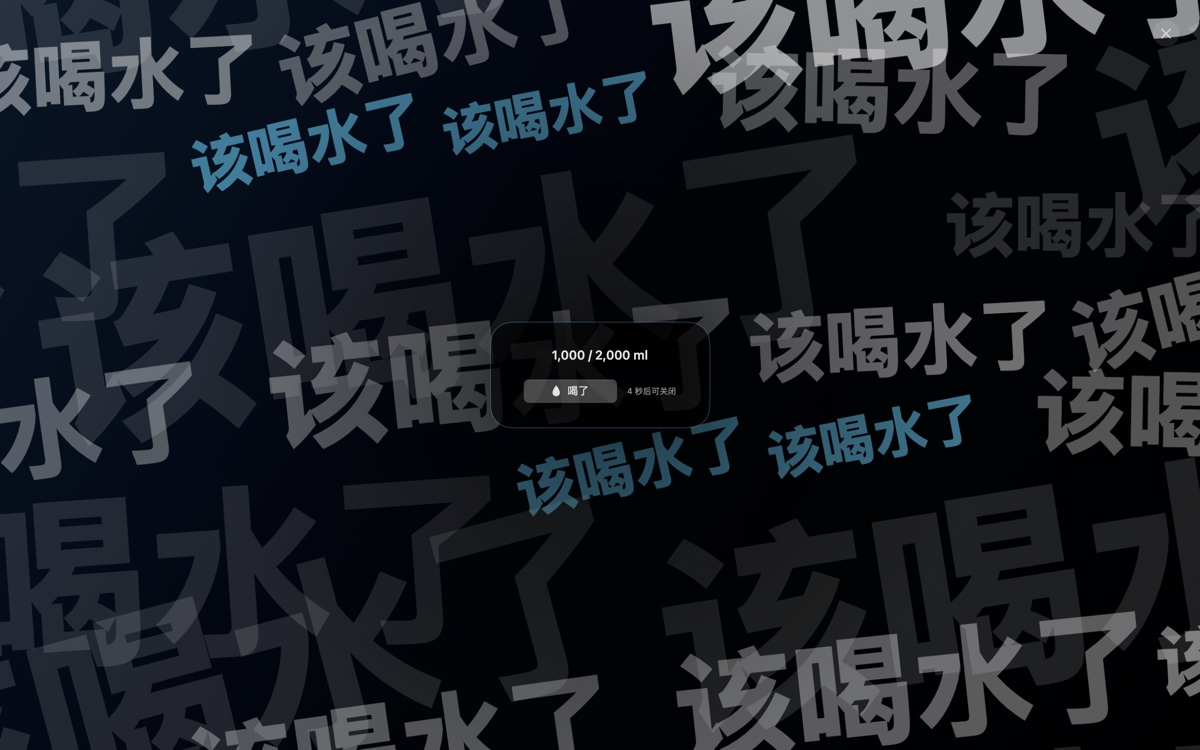
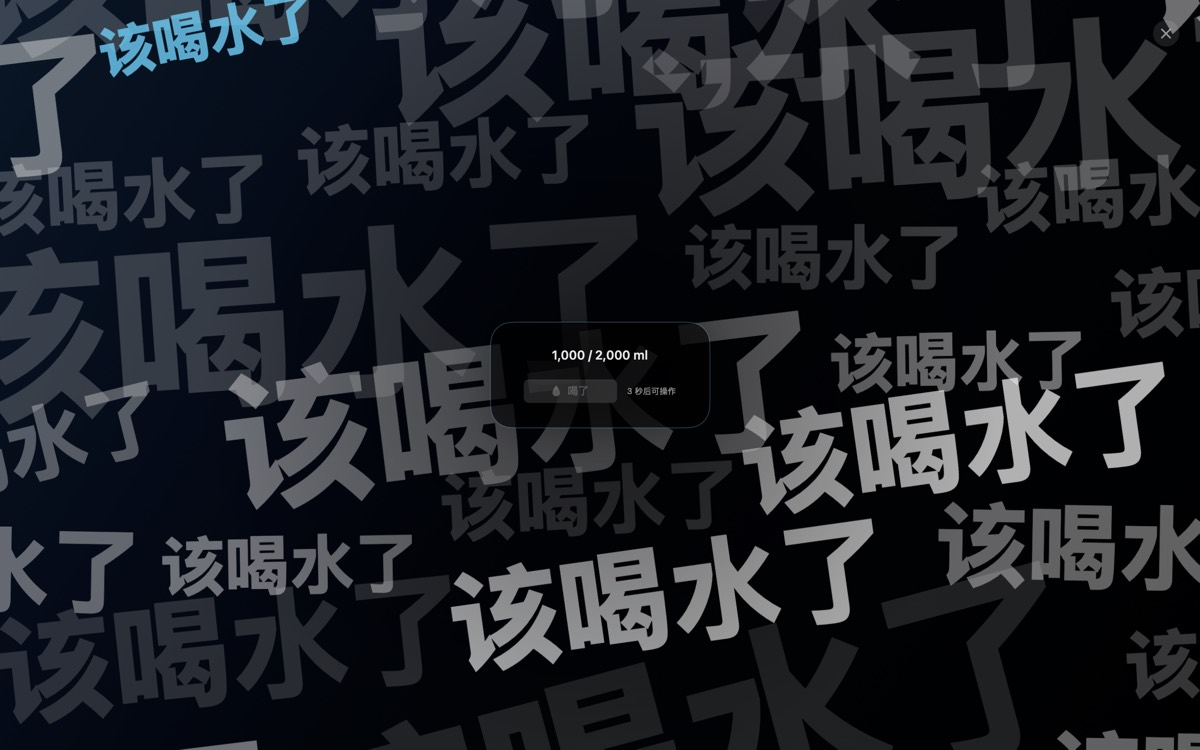
强硬档：5 秒锁定挡整块动作区（"喝了"与 × 都要等解锁）
- 完成按钮与 Enter 在锁定期内一并失效，只保留双击 Esc 逃生口
- 锁定文案改为「N 秒后可操作」，设置页说明同步
- design/product/README/roadmap/官网口径就地重写，重出 overlay-locked 截图

diff --git a/docs/index.html b/docs/index.html
@@ -290,7 +290,7 @@
         <li class="card">
           <svg class="icon" viewBox="0 0 24 24" fill="none" stroke="currentColor" stroke-width="1.7" stroke-linecap="round" stroke-linejoin="round" aria-hidden="true"><rect x="3" y="5" width="18" height="14" rx="3"/><path d="M7.5 10.5h6M7.5 14h4"/></svg>
           <h3>三套呈现，强度可选</h3>
-          <p>温柔：右上角卡片 + 提示音。大字墙：满屏重复大字 + 渐强音，标准档可推迟，强硬档不可推迟、中断先锁 5 秒。碎裂：满屏碎玻璃。每张卡都能单独预览。</p>
+          <p>温柔：右上角卡片 + 提示音。大字墙：满屏重复大字 + 渐强音，标准档可推迟，强硬档不可推迟、按钮先锁 5 秒（双击 Esc 仍可立即中断）。碎裂：满屏碎玻璃。每张卡都能单独预览。</p>
         </li>
         <li class="card">
           <svg class="icon" viewBox="0 0 24 24" fill="none" stroke="currentColor" stroke-width="1.7" stroke-linecap="round" stroke-linejoin="round" aria-hidden="true"><path d="M4 6.5h16M4 12h16M4 17.5h9"/><circle cx="17.5" cy="17.5" r="2.2"/></svg>

diff --git a/Sources/BargeIn/Presentation/PresentationChrome.swift b/Sources/BargeIn/Presentation/PresentationChrome.swift
@@ -36,7 +36,8 @@ enum PresentationChrome {
             }
             .buttonStyle(.borderedProminent)
             .controlSize(.large)
-            .disabled(!context.interactive)
+            // 锁定期连"喝了"也不响应：强硬档 5 秒内整块动作区都按不动，只留双击 Esc 逃生。
+            .disabled(!context.interactive || !context.unlocked)
             .help("记录这次提醒（1 秒内连按两次 Enter 也可确认）")
 
             if context.presentation.allowsPostpone {
@@ -47,7 +48,7 @@ enum PresentationChrome {
             }
 
             if !context.unlocked {
-                Text("\(context.secondsLeft) 秒后可关闭")
+                Text("\(context.secondsLeft) 秒后可操作")
                     .font(.caption)
                     .foregroundStyle(.secondary)
             }

diff --git a/Sources/BargeIn/Presentation/ReminderPresenter.swift b/Sources/BargeIn/Presentation/ReminderPresenter.swift
@@ -181,9 +181,10 @@ final class ReminderPresenter {
     }
 
     /// 1 秒内连按两次 Enter = 确认喝了。第一次只记录，单次误触不会记下一杯。
+    /// 锁定期内连 Enter 一起挡掉：按钮按不动，键盘不能成为后门。
     private func returnPressed() {
         if let animator, !animator.isInteractive { return }
-        guard let state = overlayState, state.interactive, state.registerReturn() else { return }
+        guard let state = overlayState, state.interactive, state.unlocked, state.registerReturn() else { return }
         handle { $0.onComplete?() }
     }
 

diff --git a/Sources/BargeIn/Settings/PresetSection.swift b/Sources/BargeIn/Settings/PresetSection.swift
@@ -306,7 +306,7 @@ struct PresetEditor: View {
                     .frame(width: 180)
                     Spacer(minLength: 0)
                 }
-                Text("强硬不可推迟，中断按钮锁定 5 秒起；标准可以推迟 5 分钟。")
+                Text("强硬不可推迟，按钮锁定 5 秒（双击 Esc 仍可立即中断）；标准可以推迟 5 分钟。")
                     .font(.system(size: 10.5))
                     .foregroundStyle(.secondary)
             }

diff --git a/Sources/BargeIn/Presentation/ReminderOverlay.swift b/Sources/BargeIn/Presentation/ReminderOverlay.swift
@@ -6,7 +6,7 @@ import BargeInCore
 @Observable
 final class OverlayState {
     private(set) var secondsLeft: Int
-    /// 关闭/中断按钮的延迟解锁。
+    /// 动作区的延迟解锁：强硬档 5 秒内"喝了"与 × 都不响应，双击 Esc 不受它影响。
     private(set) var unlocked: Bool
     /// 覆盖层出现后 1 秒内所有按钮都不响应，避免"正在点的位置"被吞成误触。
     private(set) var interactive = false

diff --git a/docs/design.md b/docs/design.md
@@ -306,20 +306,21 @@ protocol PresetTheme {
 | 大字墙 `wall` | 满屏重复大字 | 渐强 | 强度 + 文案 |
 | 碎裂 `shatter` | 满屏碎掉的深色玻璃 | 玻璃碎（一次） | 仅文案 |
 
-**"标准 / 强硬"不是两套预设**：它们是大字墙强度参数的两个取值，视觉与音效完全相同，差别只在预设行为（能否推迟、中断延迟）。强度是预设实例的可配置项，和文案覆盖同级；温柔与碎裂没有强度。
+**"标准 / 强硬"不是两套预设**：它们是大字墙强度参数的两个取值，视觉与音效完全相同，差别只在预设行为（能否推迟、动作锁定时长）。强度是预设实例的可配置项，和文案覆盖同级；温柔与碎裂没有强度。
 
 **碎裂没有可配置参数**：炸点、裂纹与碎片每次提醒重新生成（预览与到点各一套），多屏按尺寸等比缩放共用同一套。它不改音效、时长与强度——"多难推掉"由预设实例的强度决定，与账本无关。
 
 **预设行为由预设自己给出**，预设与实例只能选强度，不能自定义数值：
 
-| 预设 · 强度 | 能否推迟 | 中断按钮延迟 | 中断方式 |
+| 预设 · 强度 | 能否推迟 | 动作锁定 | 中断方式 |
 |---|---|---|---|
 | 温柔（无强度） | 允许 | 0s | 双击 Esc 或单击 × |
 | 大字墙 · 标准 | 允许 | 0s | 双击 Esc 或单击 × |
-| 大字墙 · 强硬 | 禁止 | 5s | 双击 Esc 或单击 × |
+| 大字墙 · 强硬 | 禁止 | 5s（"喝了"与 × 都要等解锁） | 双击 Esc 或单击 × |
 | 碎裂（无强度） | 允许 | 0s | 双击 Esc 或单击 × |
 
 这张表是呈现行为本身，不是升级阶梯；任何预设、任何副本都调不出"无限延迟"。账本不参与。
+锁定挡的是鼠标与 `Enter`：锁定期间点"喝了"和点 × 都不响应，只有双击 Esc 能结束这次提醒。
 
 全屏大字墙的视觉：`大字词` 以 7° 倾角重复铺满，字号在约 0.5×–2× 之间混排，每个词各自旋转、上下偏移，行高固定，行与行之间左右错位，白色为主、青色点缀；排布每次呈现重新散列（同一次呈现内固定，不逐帧抖），所以同一句话每次出现都不一样；视线落点只有中央一块半透明深色面板，用来放进度与动作。字墙按 5 组错峰闪动，每组约 2.4 秒冲到全亮一次，强调频率压得比光敏阈值低，开启系统「减弱动态效果」时保持静态。
 
@@ -501,7 +502,7 @@ CalDAV 的流程（以钉钉为基准，其他服务器同构）：
 - 界面不展示跳过次数；popover 与设置只展示用户需要的进度与次数（喝水毫升、活动次数、日程场次、闹钟条数）。
 - 引擎不再生成"升级说明"；提醒层、popover 与设置里都没有这句话。
 
-**Esc 一律双击**：任何预设、任何强度，中断都要在 1 秒内按两次 Esc——第一次只记录，第二次才算确认，单击不生效。延迟还没走完时双击 Esc 仍可立即中断（逃生口）。× 按钮在延迟走完后单击即可。
+**Esc 一律双击**：任何预设、任何强度，中断都要在 1 秒内按两次 Esc——第一次只记录，第二次才算确认，单击不生效。锁定还没走完时双击 Esc 仍可立即中断（逃生口），这是强硬档锁定期内唯一的出口；"喝了"与 × 都要等锁定解除。
 
 ### 4.13 闹钟
 
@@ -626,8 +627,8 @@ CalDAV 的流程（以钉钉为基准，其他服务器同构）：
 点「就用这个」之后：
 
 1. 这次选择**同时落到四个场景**的激活实例（选温柔则都温柔；选大字墙则都大字墙·标准）。
-2. **立即按喝水场景真实呈现一次预览**——视觉、音效、该预设的延迟行为全都在。强硬档在预览里同样要等 5 秒才能关。
-3. 预览里任何动作只关闭：不写状态、不记账、不动调度。双击 Esc 仍是通用逃生口。
+2. **立即按喝水场景真实呈现一次预览**——视觉、音效、该预设的锁定行为全都在。强硬档在预览里同样锁 5 秒，只有双击 Esc 能立刻关。
+3. 预览里任何动作只关闭：不写状态、不记账、不动调度；锁定照卡片的强度走，双击 Esc 仍是通用逃生口。
 4. 预览里显示一行"这是预览"的标识。
 5. 预览关闭后**关闭设置窗口，只剩菜单栏**。
 
@@ -643,12 +644,12 @@ CalDAV 的流程（以钉钉为基准，其他服务器同构）：
 - **碎裂**：整屏是一块不透明的深色玻璃，裂纹与碎片就是遮罩本身；中央深色面板承放标题、进度与动作。等用户处理期间，约每半秒开始掉一块小碎片，共十块（遮罩上留下小缺口），碎块本身提亮一点，否则深色碎片在深色玻璃上看不出来。动作后整片玻璃由近及远坠落（约 2 秒），遮罩随碎片消失、露出桌面，落完才关窗。
 - **文案来源**：提醒层里所有可改写的文字都取自当前场景激活实例的槽渲染；完成动作标签、"还有 N 个提醒"、可访问性标签由引擎生成，实例改不动。
 - 动作：
-  - **完成**（点按钮，或 1 秒内连按两次 `Enter`）→ 记账并关闭当前这条；喝水 +杯量，活动 +1 次，日程只记一次「知道了」
+  - **完成**（点按钮，或 1 秒内连按两次 `Enter`）→ 记账并关闭当前这条；喝水 +杯量，活动 +1 次，日程只记一次「知道了」。强硬档在锁定走完前按不动，`Enter` 同样无效
   - **推迟 5 分钟** → 关面板；rhythm 把当前场景下一次触发提前到 5 分钟后（进程内覆盖），日程把这条事件记进 `snoozedUntil`（5 分钟后再提醒一次，即便事件已经开始）；不允许推迟时不显示
-  - **中断**（快速双击 `Esc` 或右上 `×`）→ 双击 Esc 立刻关闭，零等待；`×` 在延迟走完后单击即可；任何档位单击 `Esc` 都无效，需在 1 秒内双击
+  - **中断**（快速双击 `Esc` 或右上 `×`）→ 双击 Esc 立刻关闭，零等待，锁定期间也照旧；`×` 在锁定走完后单击即可；任何档位单击 `Esc` 都无效，需在 1 秒内双击
 - **队列**：关闭当前这条后，如果队列里还有下一条，立即呈现；下一条仍走自己的预设。提醒层底部显示"还有 N 个提醒"。中断当前一条不会取消后面的。碎裂的退场要播完坠落（约 2 秒），队列里的下一条等它播完再出现，不插进坠落动画里。
 - **防误触**：覆盖层出现后 1 秒内所有按钮不响应；宿主视图 `acceptsFirstMouse` 恒为 true。碎裂在裂纹长满、面板出现（约 2.25 秒）之前连 Esc / Enter 都不响应——用户还没看到任何东西，不该被一个按键关掉。
-- **延迟只锁中断**：延迟只作用在中断路径；"完成"在 1 秒防误触后即可用，"推迟"按预设行为表（强硬不提供）。
+- **锁定挡整块动作区**：强硬档的 5 秒锁定同时挡"完成"与"×"，键盘 `Enter` 也一起挡——按钮按不动，键盘不能成为后门。锁定期间唯一能结束提醒的是双击 `Esc`（逃生口）。其他档位没有锁定，"完成"在 1 秒防误触后即可用；"推迟"按预设行为表（强硬不提供）。
 - **键盘与焦点**：展示时 `NSApp.activate()` 激活自身、面板 `makeKeyAndOrderFront` 成为 key window；`Esc` 与 `Enter` 都由 App 级 `NSEvent` 本地监听处理。`Enter` 与 `Esc` 各记一份双击时间窗。队列里连续呈现时，不把前台还给原 App 又抢回来；最后一条关闭后才还原。
 - 可访问性：大字墙对 VoiceOver 读作一个完整的 `大字词`；按钮都有中文标签；关闭键带 `help` 说明。
 - 中断永远即时生效：不拦截键盘、不阻止切换 App、不阻止强退。强度只体现在预设本身，不体现在"这次逃不掉"。中断是逃生口：即使当前提醒的内部状态缺失，也先关掉提醒层，记账尽力而为——全屏覆盖层不能存在关不掉的状态。
@@ -899,3 +900,4 @@ Makefile                 // make run / make app
 - 2026-11-13 v8：新增闹钟场景（自己定的时刻、每天/仅一次、受通用时间约束、无效是派生状态、一次性补发窗口与消散），触发来源加 `alarms`，设置扩到五个 tab，记录 ADR-0002
 - 2026-11-17 v9：节奏切换只换用哪一套，另一边留在存档里，切回来不被重置
 - 2026-11-17 v10：设置 tab 加场景图标；提醒预设两行封顶、超出纵向滚动并自动滚到新复制的卡；通用页加作者信息一行
+- 2026-11-18 v11：强硬档的 5 秒锁定改为挡整块动作区（"喝了"与 × 都要等解锁，`Enter` 一起挡），双击 Esc 仍是唯一逃生口

diff --git a/docs/product.md b/docs/product.md
@@ -238,14 +238,14 @@
 
 **预设行为表**（预设只能选强度，不能自定义数值）
 
-| 档位 | 呈现 | 推迟 | 中断按钮 | 中断方式 |
+| 档位 | 呈现 | 推迟 | 按钮 | 中断方式 |
 |---|---|---|---|---|
 | 温柔 | 右上角卡片 + 单次提示音 | 允许 | 立即可点 | 双击 Esc 或单击 × |
 | 大字墙 · 标准 | 满屏重复大字 + 渐强音 | 允许 | 立即可点 | 双击 Esc 或单击 × |
-| 大字墙 · 强硬 | 满屏重复大字 + 渐强音 | 禁止 | 延迟 5 秒 | 双击 Esc 或单击 × |
+| 大字墙 · 强硬 | 满屏重复大字 + 渐强音 | 禁止 | 锁定 5 秒（"喝了"与 × 都要等） | 双击 Esc 或单击 × |
 | 碎裂 | 满屏碎玻璃 + 玻璃碎音 | 允许 | 立即可点 | 双击 Esc 或单击 × |
 
-**Esc 一律双击**：任何档位都要在 1 秒内连按两次才中断，单击不生效；延迟还没走完时双击照样立即中断。× 按钮在延迟走完后单击即可。
+**Esc 一律双击**：任何档位都要在 1 秒内连按两次才中断，单击不生效；锁定还没走完时双击照样立即中断——这是强硬档锁定期内唯一的出口。"喝了"与 × 都要等锁定解除，`Enter` 也一起挡。
 
 **账本只记录**：跳过与完成都计入该场景的账本，但不改变下一次提醒；界面不展示跳过次数，也不做历史与统计。
 
@@ -257,13 +257,13 @@
 
 **视觉冲突**：大字墙是满屏重复的大字墙——大小字混排、7° 倾斜、每词各自旋转偏移、每次呈现重新排布、5 组错峰闪到全亮。冲突来自密度、凌乱与闪烁。强度不设上限（§6 原则 1）：呈现可以是遮挡、悬置、触觉与声音、时间渐变（1px 边 30 秒涨成满屏），或者一段叙事（满屏碎裂、涨上来的水）。设计新档位时只问"够不够狠、怎么实现"；涉及读取屏幕内容、跟随全局光标或阻止切 App 的做法会破原则 3、4，不能做。
 
-**为什么不做自动升级**：强度属于预设实例，和文案覆盖同级——用户选了什么预设，就得到什么强度；产品不根据跳过次数偷偷加码。代价是"心流用户会一直点推迟"，我们接受它：把选择交给用户（强硬不可推迟），而不是交给一个用户看不见的升级算法。
+**为什么不做自动升级**：强度属于预设实例，和文案覆盖同级——用户选了什么预设，就得到什么强度；产品不根据跳过次数偷偷加码。代价是"心流用户会一直点推迟"，我们接受它：把选择交给用户（强硬不可推迟、按钮先锁 5 秒），而不是交给一个用户看不见的升级算法。
 
 ## 10. 交互概要
 
 - **首次启动**：设置窗口 + 温柔 / 大字墙 / 碎裂三张卡（默认大字墙 · 标准），这次选择同时落到四个场景；点"就用这个"后**立即按喝水场景真实呈现一次预览**（带一行"这是预览"标识；任何动作只关闭，不写状态不记账），随后窗口关闭、只剩菜单栏
 - **日常**：只在菜单栏；点开看喝水进度、活动次数、下一场日程与下一条闹钟，点水位环记一杯、按住环 2 秒清空今日进度，免打扰 1 小时，或点"活动了"，进设置
-- **被提醒**：满屏重复大字或右上卡片，一个动作结束；快速双击 Esc 随时中断；"完成"不受关闭延迟影响，也可在 1 秒内连按两次 Enter
+- **被提醒**：满屏重复大字或右上卡片，一个动作结束；快速双击 Esc 随时中断；"完成"可在 1 秒内连按两次 Enter（强硬档的按钮要等 5 秒锁定解除，Esc 不受影响）
 - **同时到点**：逐条呈现，每一条底部显示"还有 N 个提醒"；关掉一条立刻下一条
 - **日程**：在设置「日程」tab 里贴订阅地址 → 立即同步一次 → 看到"已同步 N 个事件" → 打开场景开关。地址失效或密码错，行内直接说原因，不去猜"网络错误"
 - **闹钟**：在设置「闹钟」tab 点「添加闹钟」→ 改内容与时刻 → 选每天或仅一次 → 场景开关打开。条目与通用时间冲突时行内标成琥珀色的「不会响」并写明原因
@@ -338,6 +338,7 @@
 ## 修订记录
 
 - 2026-11-17：版本号 0.4.8——大字墙排布每次呈现重新排布；版本行同步
+- 2026-11-18：强硬档的 5 秒锁定从"只锁中断"改为锁住整块动作区——"喝了"与 × 都要等解锁（Enter 一起挡），双击 Esc 仍是唯一逃生口
 - 2026-11-17：版本号 0.4.7——设置页 tab 加场景图标、提醒预设两行封顶（超出纵向滚动）、通用页加作者信息；版本行同步
 - 2026-11-17：版本号 0.4.6——固定间隔 / 指定时刻切换保留另一侧设置，切回不再被重置；版本行同步
 - 2026-11-17：版本号 0.4.5——中断成为无条件逃生口（双击 Esc / × 不依赖当前提醒的内部状态）；版本行同步

diff --git a/README.md b/README.md
@@ -30,8 +30,8 @@ xattr -d com.apple.quarantine "/Applications/Barge In.app"
 
 - 菜单栏常驻，无 Dock 图标、无主窗口
 - **四个场景**：喝水（日目标、单杯量、今日进度、达标即静默）、活动（到点起身舒展，没有每日目标）、日程（订阅你已有的日历）、闹钟（你自己定的时刻）；四者等权，每个场景有自己的启用开关、调度、预设实例与账本
-- 三种结束方式：**喝了 / 活动了 / 知道了**（或 1 秒内连按两次 Enter）/ **推迟 5 分钟** / **中断**（双击 Esc 立即生效；× 按预设，强硬档先锁 5 秒）
-- **三套呈现预设**：温柔（右上角卡片 + 提示音）/ 大字墙（满屏重复大字 + 渐强音）/ 碎裂（满屏碎玻璃 + 玻璃碎音）；大字墙可选强度——标准（可推迟）/ 强硬（不可推迟、中断先锁 5 秒），大字墙每次重新排布、碎裂每次重新生成花纹，出厂默认大字墙 · 标准，每张卡都能单独预览
+- 三种结束方式：**喝了 / 活动了 / 知道了**（或 1 秒内连按两次 Enter）/ **推迟 5 分钟** / **中断**（双击 Esc 立即生效；× 按预设，强硬档前 5 秒按钮全锁）
+- **三套呈现预设**：温柔（右上角卡片 + 提示音）/ 大字墙（满屏重复大字 + 渐强音）/ 碎裂（满屏碎玻璃 + 玻璃碎音）；大字墙可选强度——标准（可推迟）/ 强硬（不可推迟、按钮先锁 5 秒），大字墙每次重新排布、碎裂每次重新生成花纹，出厂默认大字墙 · 标准，每张卡都能单独预览
 - **账本按场景各一份**：记录今天的进度、完成与跳过，不改变下一次提醒的呈现，也不在界面上念叨
 - **同时到点**：按提醒队列逐条呈现，关闭一条立刻下一条，提醒层显示"还有 N 个提醒"；每个场景最多一条、日程与闹钟按条各一条，不静默丢弃
 - 调度：固定间隔或每天指定时刻，可设工作时段与休息日；活动出厂默认每天 10:30 / 14:30 / 16:30
@@ -74,9 +74,9 @@ xattr -d com.apple.quarantine "/Applications/Barge In.app"
 
 ![全屏提醒](docs/screenshots/overlay.jpg)
 
-强硬档：中断按钮先锁 5 秒，也不能推迟（"喝了"不受影响）：
+强硬档：不能推迟，按钮先锁 5 秒——"喝了"与 × 都要等，双击 Esc 仍可立刻中断：
 
-![强硬档：中断按钮先锁 5 秒](docs/screenshots/overlay-locked.jpg)
+![强硬档：按钮先锁 5 秒](docs/screenshots/overlay-locked.jpg)
 
 温柔档：右上角卡片。
 

diff --git a/docs/roadmap.md b/docs/roadmap.md
@@ -75,7 +75,7 @@
 **验收**
 - 多显示器全覆盖；切 Space 不丢失；全屏 Space 内能弹出
 - 三种结束方式各自生效；中断零等待
-- 任何档位下单击 Esc 都不中断，快速双击 Esc 可立即中断；强硬档的 × 在 5 秒延迟走完后单击即可
+- 任何档位下单击 Esc 都不中断，快速双击 Esc 可立即中断（锁定期间照旧）；强硬档的"喝了"与 × 在 5 秒锁定走完后可用
 - 提醒展示中再次到点不叠面板
 - 拔插显示器后面板集合正确重建
 
